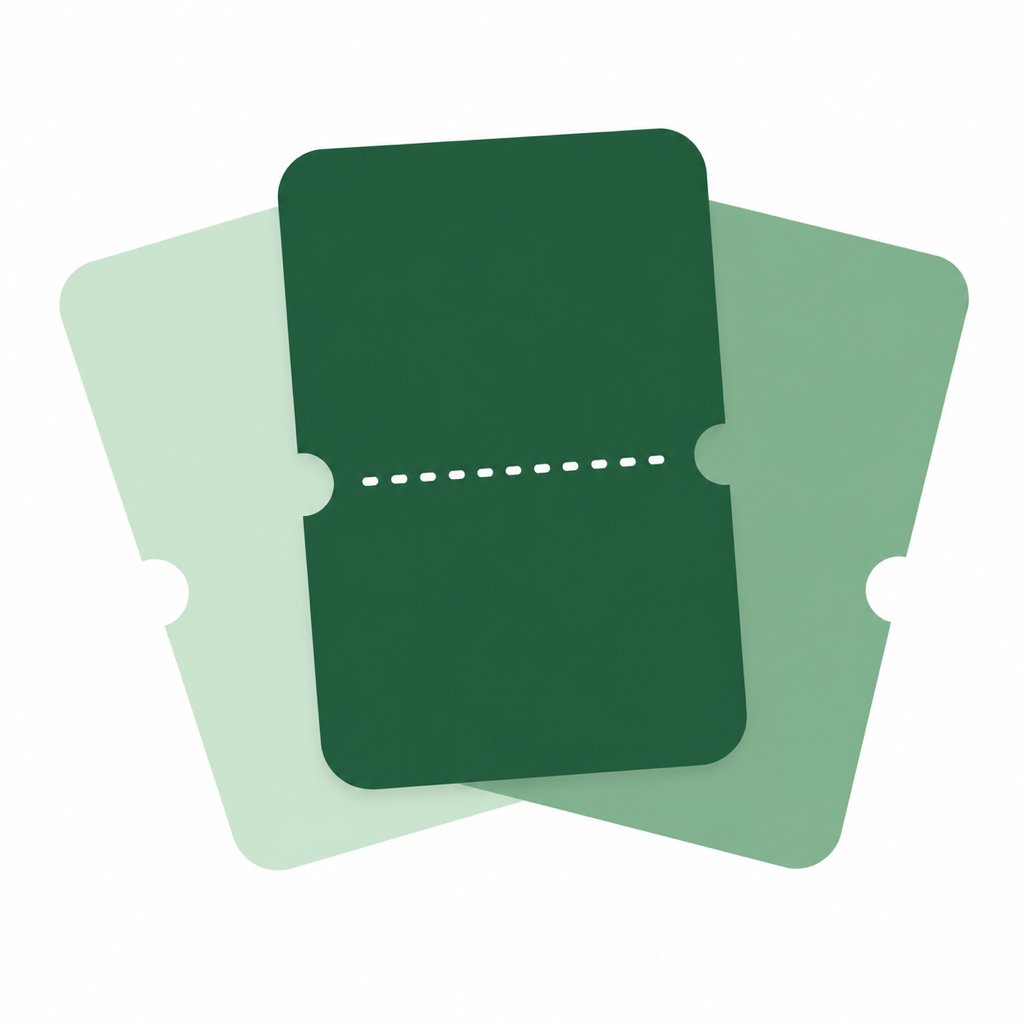
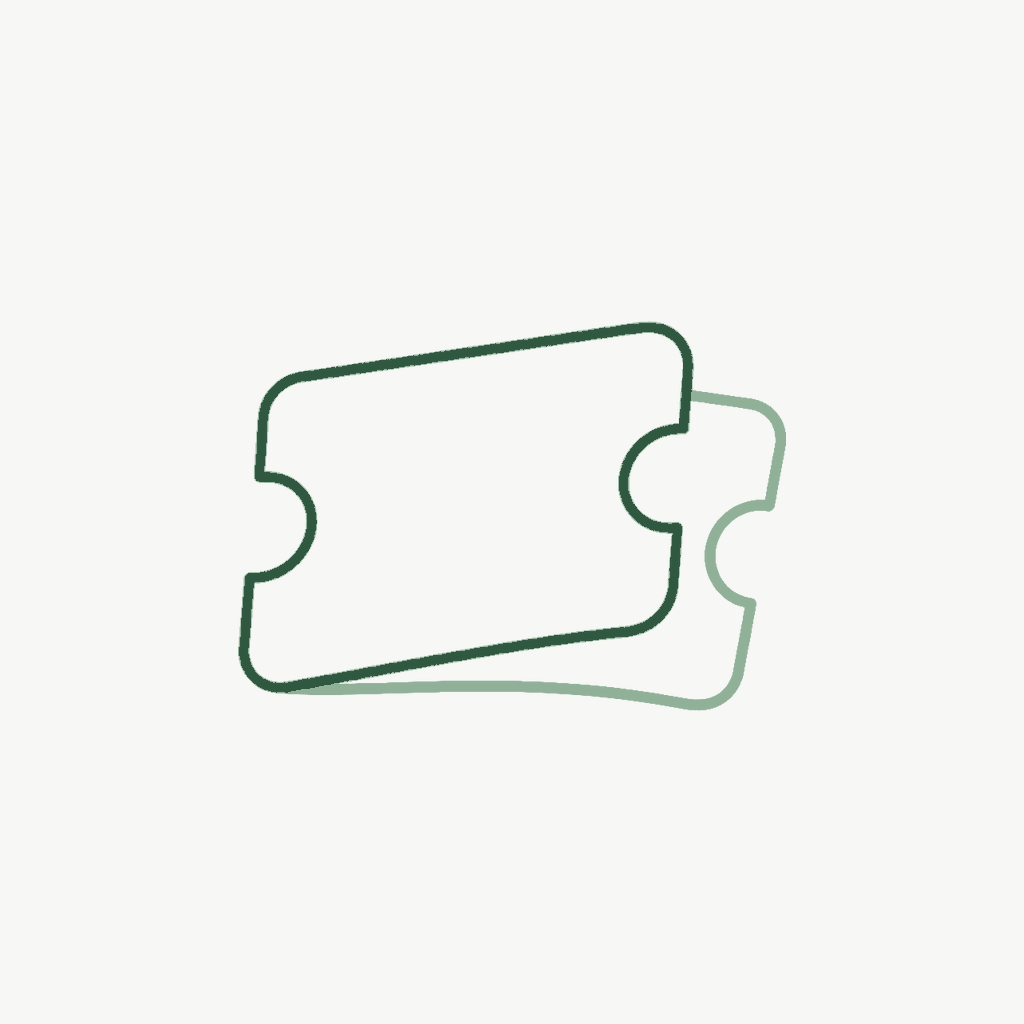
Refresh Tickets support pages

diff --git a/privacy.html b/privacy.html
@@ -1,89 +1,92 @@
 <!doctype html>
-<html lang="zh-Hans">
+<html lang="zh-CN">
 <head>
-    <meta charset="utf-8">
-    <meta name="viewport" content="width=device-width, initial-scale=1">
-    <title>隐私政策 - 票迹</title>
-    <meta name="description" content="票迹 App 隐私政策。">
-    <link rel="stylesheet" href="styles.css">
+  <meta charset="utf-8">
+  <meta name="viewport" content="width=device-width, initial-scale=1">
+  <title>票迹隐私政策</title>
+  <style>
+    :root {
+      color-scheme: light dark;
+      --brand: #2c5140;
+      --text: #1c1c1e;
+      --muted: #636366;
+      --bg: #fbfbfa;
+      --card: #ffffff;
+      --line: rgba(44, 81, 64, 0.18);
+    }
+    @media (prefers-color-scheme: dark) {
+      :root {
+        --brand: #c2e0c9;
+        --text: #f2f2f7;
+        --muted: #aeaeb2;
+        --bg: #101110;
+        --card: #1c1d1c;
+        --line: rgba(194, 224, 201, 0.22);
+      }
+    }
+    body {
+      margin: 0;
+      background: var(--bg);
+      color: var(--text);
+      font: 16px/1.72 -apple-system, BlinkMacSystemFont, "SF Pro Text", "Helvetica Neue", Arial, sans-serif;
+    }
+    main {
+      max-width: 760px;
+      margin: 0 auto;
+      padding: 44px 22px 56px;
+    }
+    h1 {
+      margin: 0 0 8px;
+      font-size: 32px;
+      line-height: 1.2;
+      letter-spacing: 0;
+    }
+    h2 {
+      margin: 30px 0 8px;
+      font-size: 20px;
+    }
+    p {
+      margin: 8px 0;
+    }
+    .meta {
+      color: var(--muted);
+      font-size: 14px;
+      margin-bottom: 28px;
+    }
+    .panel {
+      background: var(--card);
+      border: 1px solid var(--line);
+      border-radius: 14px;
+      padding: 22px;
+    }
+    a {
+      color: var(--brand);
+      font-weight: 600;
+    }
+  </style>
 </head>
 <body>
-    <main class="page">
-        <nav class="nav" aria-label="主导航">
-            <a class="brand" href="index.html">
-                <img src="assets/app-icon.png" alt="票迹图标">
-                <span>票迹</span>
-            </a>
-            <div class="nav-links">
-                <a href="index.html">首页</a>
-                <a href="support.html">支持与反馈</a>
-            </div>
-        </nav>
+  <main>
+    <h1>票迹隐私政策</h1>
+    <p class="meta">生效日期：2026 年 6 月 7 日</p>
+    <div class="panel">
+      <p>票迹尊重你的隐私。应用不会要求注册账号，不会接入广告 SDK，不会进行跨 App 或跨网站追踪，也不会主动上传你的票据图片、备注、文件夹或偏好设置。</p>
 
-        <section class="hero">
-            <div class="identity">
-                <img class="app-icon" src="assets/app-icon.png" alt="票迹 App 图标">
-                <div>
-                    <div class="eyebrow">隐私政策</div>
-                    <h1>票迹隐私政策</h1>
-                </div>
-            </div>
-            <p class="lead">票迹尊重你的隐私。App 不需要注册账号，不接入广告 SDK，不进行跨 App 或跨网站追踪，也不会主动上传你的票据图片、备注、文件夹或偏好设置。</p>
-            <p class="muted">生效日期：2026 年 5 月 25 日</p>
-        </section>
+      <h2>本地数据</h2>
+      <p>你拍摄或导入的票据图片、缩略图、备注、收藏和文件夹信息默认保存在当前设备上的 App 本地存储中。删除 App 会同时删除这些本地数据。</p>
 
-        <section class="group">
-            <div class="section-title">数据处理</div>
-            <div class="list">
-                <div class="row">
-                    <h2>我们不收集的内容</h2>
-                    <p>票迹不会收集、上传、出售或共享你的票据图片、备注、文件夹、App 偏好设置或其他个人内容。</p>
-                </div>
-                <div class="row">
-                    <h2>本地存储</h2>
-                    <p>你拍摄或导入的票据图片、缩略图、备注、收藏、文件夹和偏好设置默认保存在当前 iPhone 的 App 本地存储中。删除 App 时，iOS 会一并移除这些本地数据。</p>
-                </div>
-                <div class="row">
-                    <h2>主动分享</h2>
-                    <p>当你使用系统分享功能时，分享内容和接收方由你自行选择。票迹不会自动把你的票据内容分享给第三方。</p>
-                </div>
-            </div>
-        </section>
+      <h2>系统权限</h2>
+      <p>相机权限仅用于拍摄票据。相册读取权限仅用于导入你选择的图片、读取拍摄日期，以及在你开启“保存到相册”后创建或复用“票迹”相册。相册写入权限仅用于把最终票据图片写入“票迹”相册。运动传感器权限仅用于票据卡片的微立体倾斜效果。</p>
 
-        <section class="group">
-            <div class="section-title">系统权限</div>
-            <div class="list">
-                <div class="row">
-                    <h2>相机与相册</h2>
-                    <p>相机权限仅用于拍摄票据。相册读取权限仅用于导入你选择的图片并读取可用的拍摄日期。开启“保存到相册”后，票迹会使用相册写入权限，把最终票据图片保存到系统相册。</p>
-                </div>
-                <div class="row">
-                    <h2>运动传感器</h2>
-                    <p>运动传感器权限仅用于票据卡片的微立体倾斜效果，不用于识别身份或追踪位置。</p>
-                </div>
-                <div class="row">
-                    <h2>App Store 内购</h2>
-                    <p>Pro 解锁通过 Apple 的 App Store 内购完成。付款、账单和退款由 Apple 处理；票迹只读取 Apple 提供的购买权益状态，用于判断是否解锁无限保存。</p>
-                </div>
-            </div>
-        </section>
+      <h2>购买信息</h2>
+      <p>Pro 解锁通过 Apple 的 App Store 内购完成。票迹只读取 Apple 提供的购买权益状态，用于判断是否解锁无限收藏；付款、账单和退款由 Apple 处理。</p>
 
-        <section class="group">
-            <div class="section-title">联系</div>
-            <div class="list">
-                <a class="row contact-row" href="mailto:[email redacted]?subject=%E7%A5%A8%E8%BF%B9%E9%9A%90%E7%A7%81%E6%94%BF%E7%AD%96">
-                    <div>
-                        <h2>隐私相关问题</h2>
-                        <p>如果你对本隐私政策有任何疑问，可以通过邮箱联系。</p>
-                    </div>
-                    <span class="value">[email redacted]</span>
-                </a>
-            </div>
-        </section>
+      <h2>数据共享</h2>
+      <p>票迹不会出售你的个人信息，也不会将你的票据内容共享给第三方。你主动使用系统分享功能时，分享的内容和接收方由你自行选择。</p>
 
-        <footer class="footer">
-            <p>Copyright © 2026 票迹。All rights reserved.</p>
-        </footer>
-    </main>
+      <h2>联系我们</h2>
+      <p>如果你对隐私政策有任何问题，请发送邮件至 <a href="mailto:[email redacted]?subject=%E7%A5%A8%E8%BF%B9%E9%9A%90%E7%A7%81%E6%94%BF%E7%AD%96">[email redacted]</a>。</p>
+    </div>
+  </main>
 </body>
 </html>

diff --git a/support.html b/support.html
@@ -1,74 +1,85 @@
 <!doctype html>
-<html lang="zh-Hans">
+<html lang="zh-CN">
 <head>
-    <meta charset="utf-8">
-    <meta name="viewport" content="width=device-width, initial-scale=1">
-    <title>支持与反馈 - 票迹</title>
-    <meta name="description" content="票迹 App 支持与反馈页面。">
-    <link rel="stylesheet" href="styles.css">
+  <meta charset="utf-8">
+  <meta name="viewport" content="width=device-width, initial-scale=1">
+  <title>票迹支持与反馈</title>
+  <style>
+    :root {
+      color-scheme: light dark;
+      --brand: #2c5140;
+      --text: #1c1c1e;
+      --muted: #636366;
+      --bg: #fbfbfa;
+      --card: #ffffff;
+      --line: rgba(44, 81, 64, 0.18);
+    }
+    @media (prefers-color-scheme: dark) {
+      :root {
+        --brand: #c2e0c9;
+        --text: #f2f2f7;
+        --muted: #aeaeb2;
+        --bg: #101110;
+        --card: #1c1d1c;
+        --line: rgba(194, 224, 201, 0.22);
+      }
+    }
+    body {
+      margin: 0;
+      background: var(--bg);
+      color: var(--text);
+      font: 16px/1.72 -apple-system, BlinkMacSystemFont, "SF Pro Text", "Helvetica Neue", Arial, sans-serif;
+    }
+    main {
+      max-width: 760px;
+      margin: 0 auto;
+      padding: 44px 22px 56px;
+    }
+    h1 {
+      margin: 0 0 8px;
+      font-size: 32px;
+      line-height: 1.2;
+      letter-spacing: 0;
+    }
+    h2 {
+      margin: 30px 0 8px;
+      font-size: 20px;
+    }
+    p {
+      margin: 8px 0;
+    }
+    .meta {
+      color: var(--muted);
+      font-size: 14px;
+      margin-bottom: 28px;
+    }
+    .panel {
+      background: var(--card);
+      border: 1px solid var(--line);
+      border-radius: 14px;
+      padding: 22px;
+    }
+    a {
+      color: var(--brand);
+      font-weight: 600;
+    }
+  </style>
 </head>
 <body>
-    <main class="page">
-        <nav class="nav" aria-label="主导航">
-            <a class="brand" href="index.html">
-                <img src="assets/app-icon.png" alt="票迹图标">
-                <span>票迹</span>
-            </a>
-            <div class="nav-links">
-                <a href="index.html">首页</a>
-                <a href="privacy.html">隐私政策</a>
-            </div>
-        </nav>
+  <main>
+    <h1>票迹支持与反馈</h1>
+    <p class="meta">我们会尽量让每张票据都被妥善留下。</p>
+    <div class="panel">
+      <p>如果你在拍摄、导入、裁切、保存或恢复购买时遇到问题，请在反馈中附上设备型号、iOS 版本、App 版本，以及问题出现前的操作步骤。</p>
 
-        <section class="hero">
-            <div class="identity">
-                <img class="app-icon" src="assets/app-icon.png" alt="票迹 App 图标">
-                <div>
-                    <div class="eyebrow">支持与反馈</div>
-                    <h1>需要帮助？</h1>
-                </div>
-            </div>
-            <p class="lead">如果你在拍摄、导入、裁切、保存或恢复购买时遇到问题，请把设备型号、iOS 版本、App 版本和复现步骤一起发给我。</p>
-        </section>
+      <h2>联系方式</h2>
+      <p>邮件：<a href="mailto:[email redacted]?subject=%E7%A5%A8%E8%BF%B9%E6%94%AF%E6%8C%81%E4%B8%8E%E5%8F%8D%E9%A6%88">[email redacted]</a></p>
 
-        <section class="group">
-            <div class="section-title">联系方式</div>
-            <div class="list">
-                <a class="row contact-row" href="mailto:[email redacted]?subject=%E7%A5%A8%E8%BF%B9%E6%94%AF%E6%8C%81%E4%B8%8E%E5%8F%8D%E9%A6%88">
-                    <div>
-                        <h2>发送邮件</h2>
-                        <p>反馈问题、建议，或咨询 Pro 恢复购买相关情况。</p>
-                    </div>
-                    <span class="value">[email redacted]</span>
-                </a>
-            </div>
-        </section>
-
-        <section class="group">
-            <div class="section-title">常见问题</div>
-            <div class="list">
-                <div class="row">
-                    <h2>票据保存在哪里？</h2>
-                    <p>默认保存在 App 本地。你可以在设置中开启“保存到相册”，之后每次保存票据时也会把最终图片写入系统相册。</p>
-                </div>
-                <div class="row">
-                    <h2>删除 App 后票据还在吗？</h2>
-                    <p>删除 App 会移除 App 本地数据。已经保存到系统相册的图片会继续保留在相册中。</p>
-                </div>
-                <div class="row">
-                    <h2>如何恢复 Pro？</h2>
-                    <p>打开票迹，进入“设置”，在“付费”区域选择“恢复购买”。请确认当前登录的是购买时使用的 Apple ID。</p>
-                </div>
-                <div class="row">
-                    <h2>票迹会上传我的票据图片吗？</h2>
-                    <p>不会。票迹不会主动上传你的票据图片、备注、文件夹或偏好设置。</p>
-                </div>
-            </div>
-        </section>
-
-        <footer class="footer">
-            <p>隐私政策：<a href="privacy.html">查看票迹隐私政策</a></p>
-        </footer>
-    </main>
+      <h2>常见问题</h2>
+      <p><strong>票据保存在哪里？</strong><br>默认保存在 App 本地。开启“保存到相册”后，最终图片也会写入系统相册中的“票迹”相册。</p>
+      <p><strong>删除 App 后是否保留？</strong><br>App 本地数据会删除；已保存到“票迹”相册的图片会保留。</p>
+      <p><strong>如何恢复 Pro？</strong><br>打开升级页底部的“恢复购买”。</p>
+    </div>
+  </main>
 </body>
 </html>